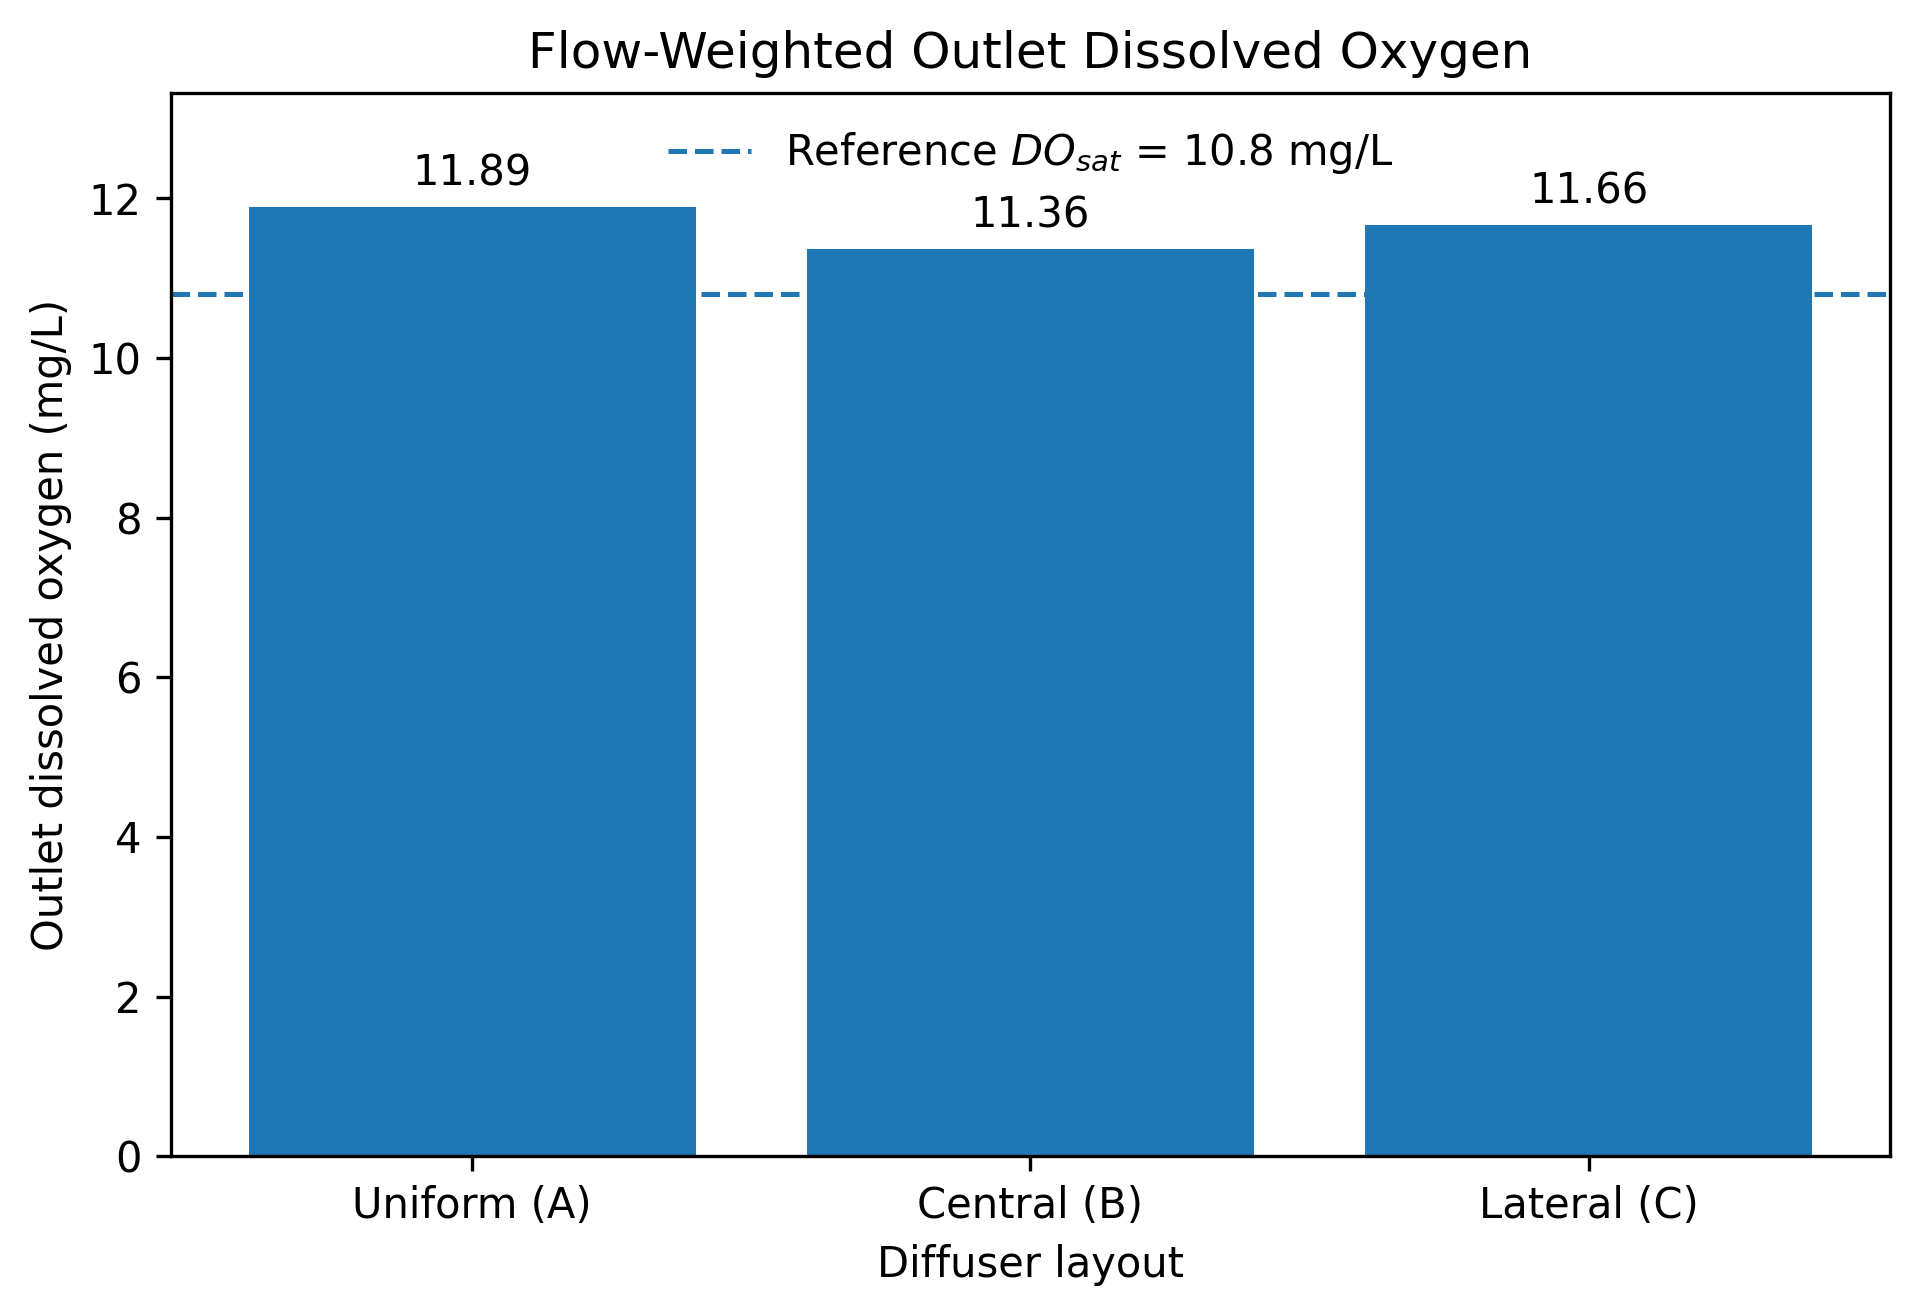
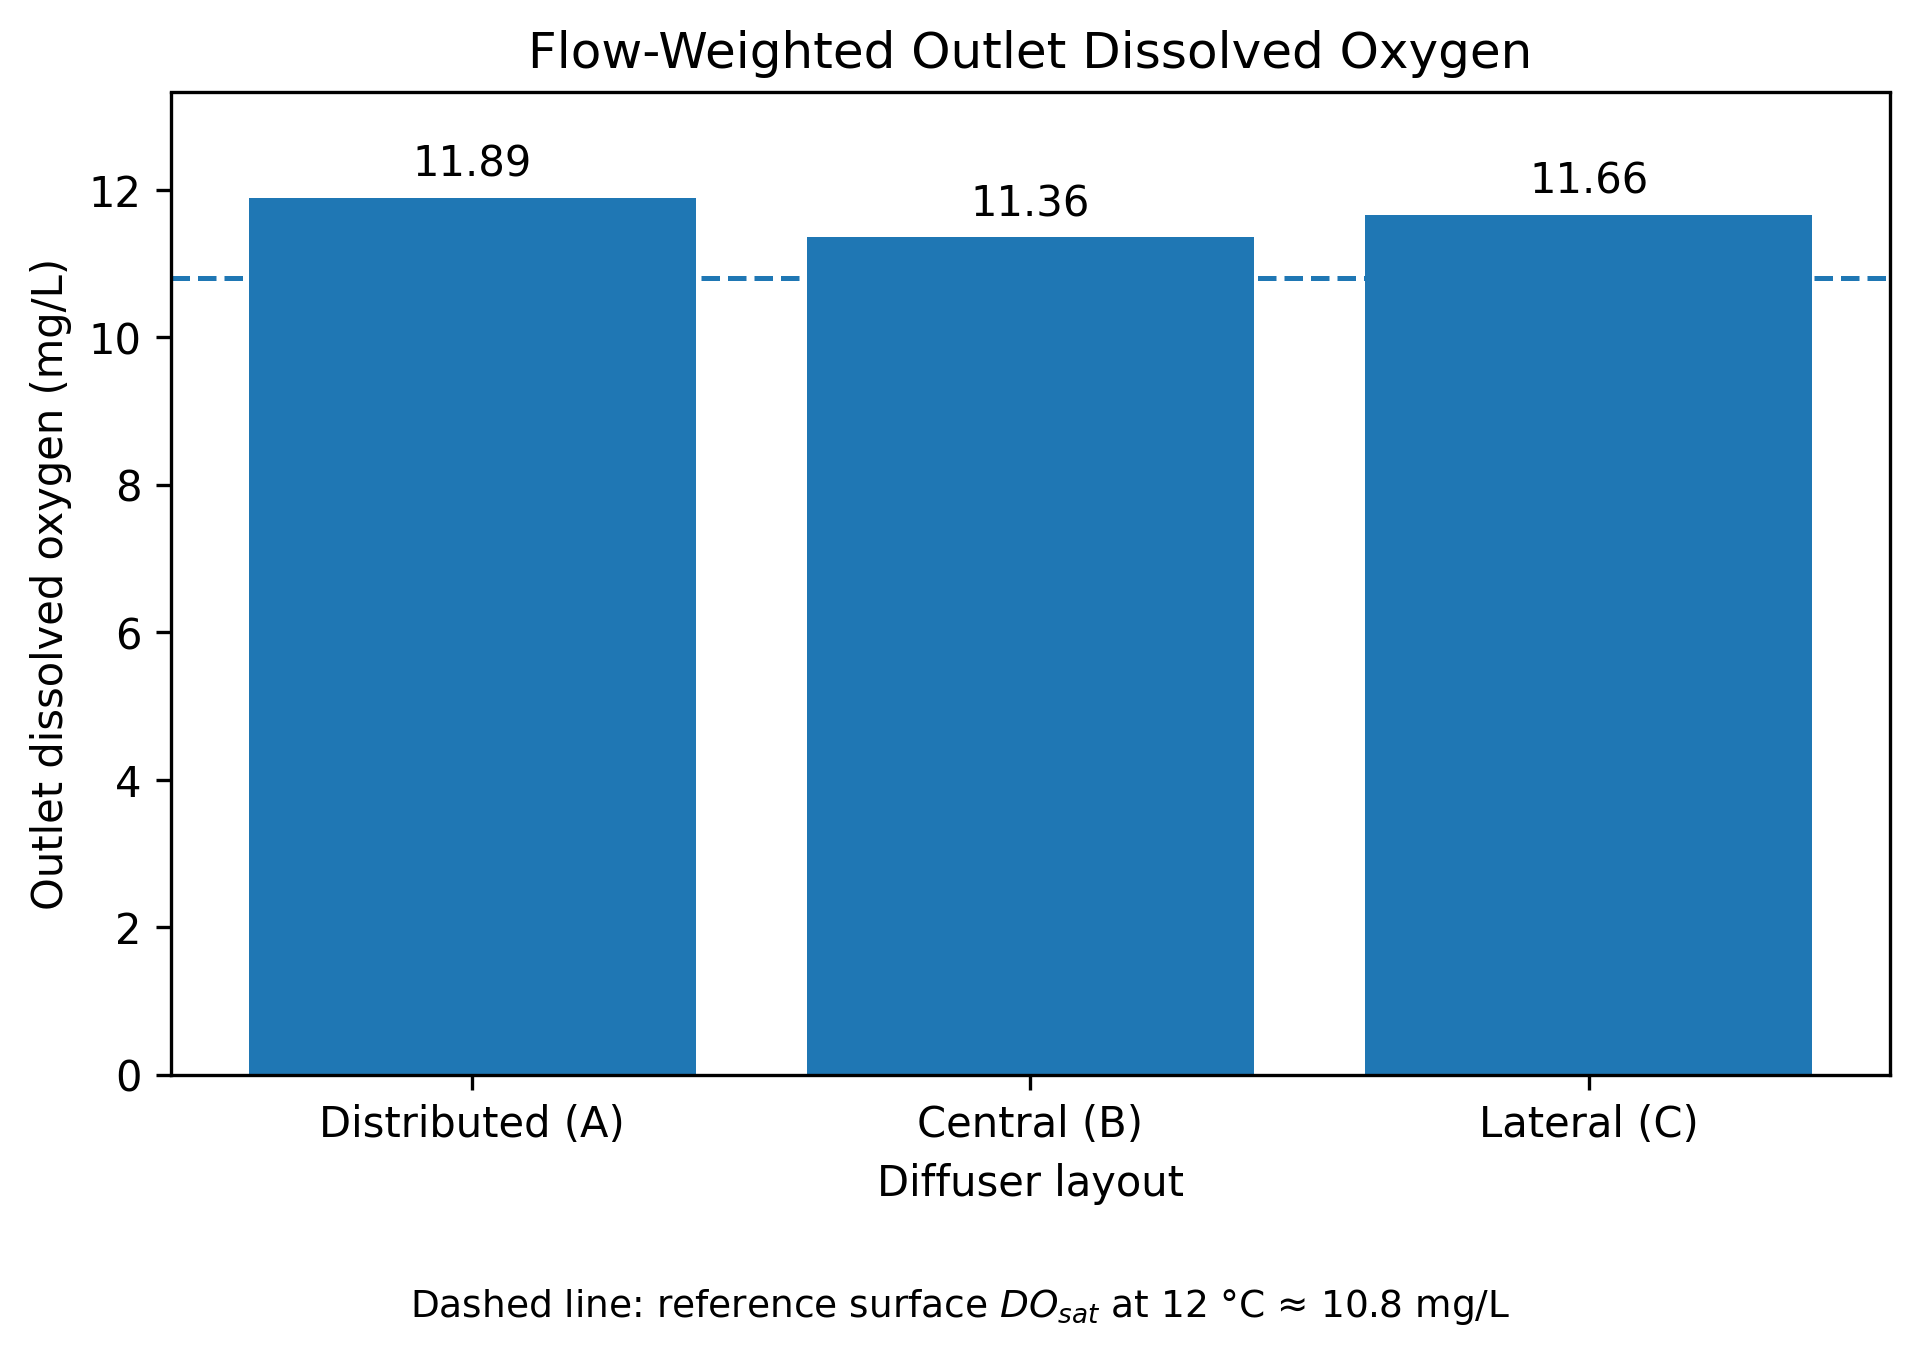
Refine README, add final summary plots, and standardize case labels

diff --git a/README.md b/README.md
@@ -195,6 +195,26 @@ Direct free-surface reaeration is not included.
 
 # Results
 
+## Summary plots
+
+The following plots complement the contour-field results with direct comparisons of the three diffuser layouts. In these plots, Case A is consistently labelled **Distributed (A)**.
+
+The mean oxygen-transfer coefficient and mean gas holdup summarize the developed aeration period from **180–300 s**. Case A has the highest mean `kLa` and mean gas holdup, while the contour fields below show how these aeration quantities are distributed through the tank.
+
+![Mean oxygen-transfer coefficient comparison](figures/oxygen_transfer/01_kLa_comparison.png)
+
+![Mean gas holdup comparison](figures/hydrodynamics/03_gas_holdup_comparison.png)
+
+The outlet dissolved-oxygen and biodegradable-substrate-COD plots summarize the final reduced-ASM1 response. The dashed line in the DO plot is an approximate **reference surface saturation DO at 12 °C (≈ 10.8 mg/L)**; it is not the spatially varying `DOsatLocalMean` field used by the model.
+
+![Flow-weighted outlet dissolved oxygen comparison](figures/biological_response/04_outlet_DO_comparison.png)
+
+![Flow-weighted outlet biodegradable substrate COD comparison](figures/biological_response/03_outlet_biodegradable_COD.png)
+
+The three outlet DO values are all high and fairly similar. Biodegradable substrate reduction is also very similar across the layouts: **98.12%** for Distributed (A), **97.43%** for Central (B), and **98.33%** for Lateral (C). Overall, diffuser layout affects the **spatial distribution of aeration, DO, and substrate more strongly than the final bulk biodegradable-substrate removal percentage**.
+
+---
+
 ## Mean air volume fraction
 
 Field:
